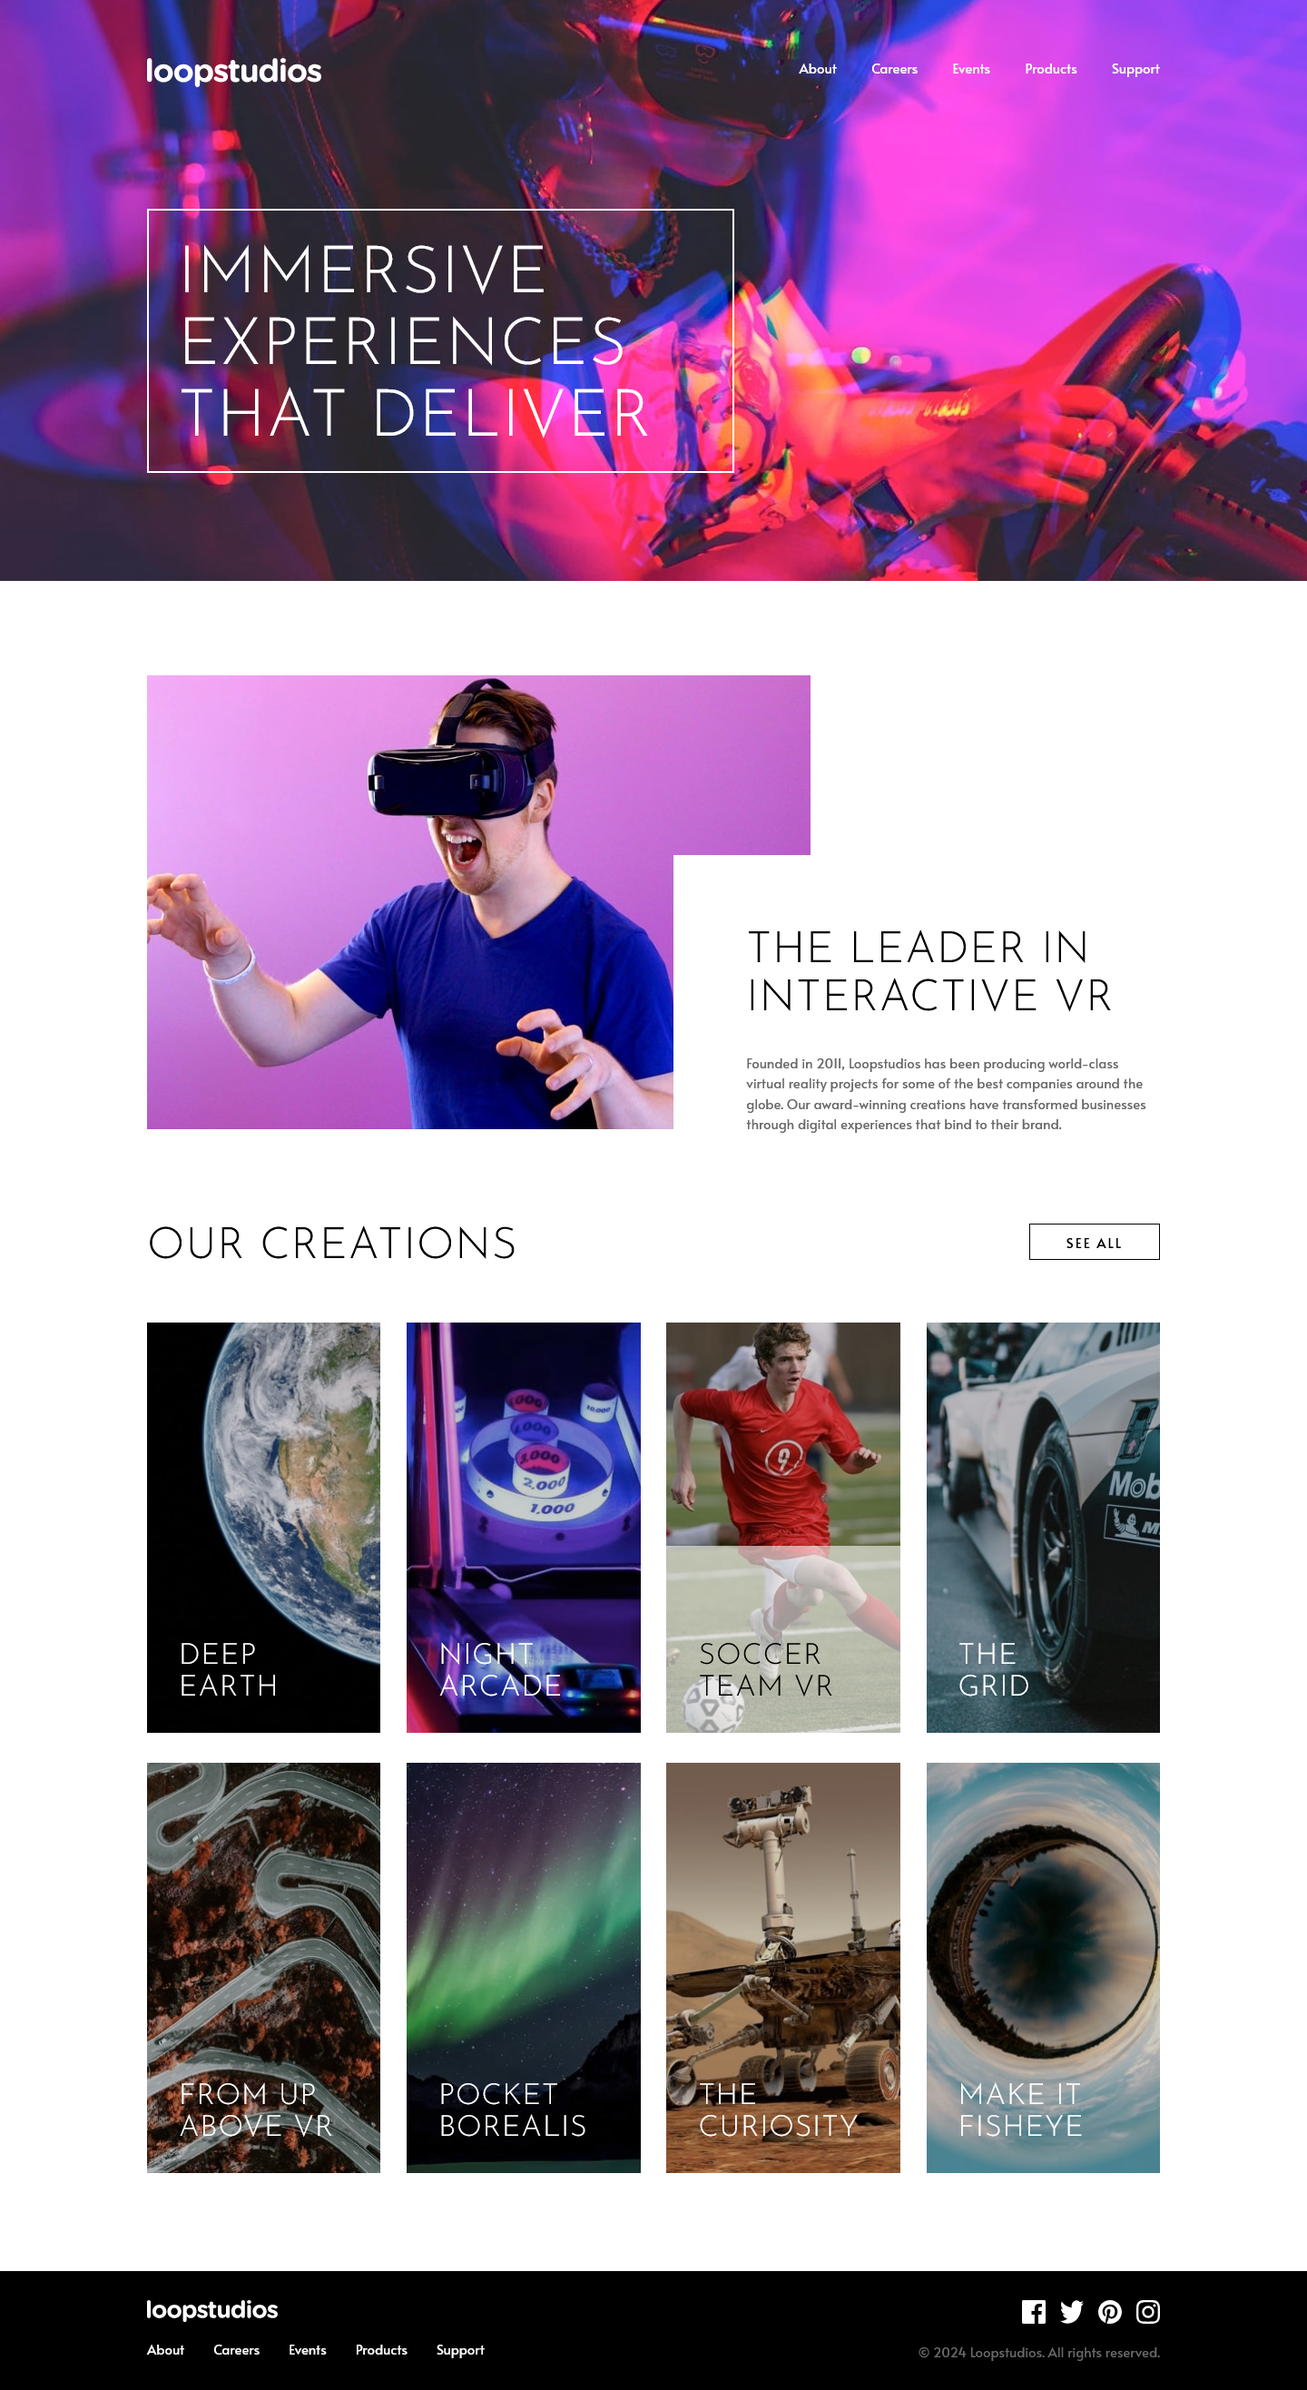
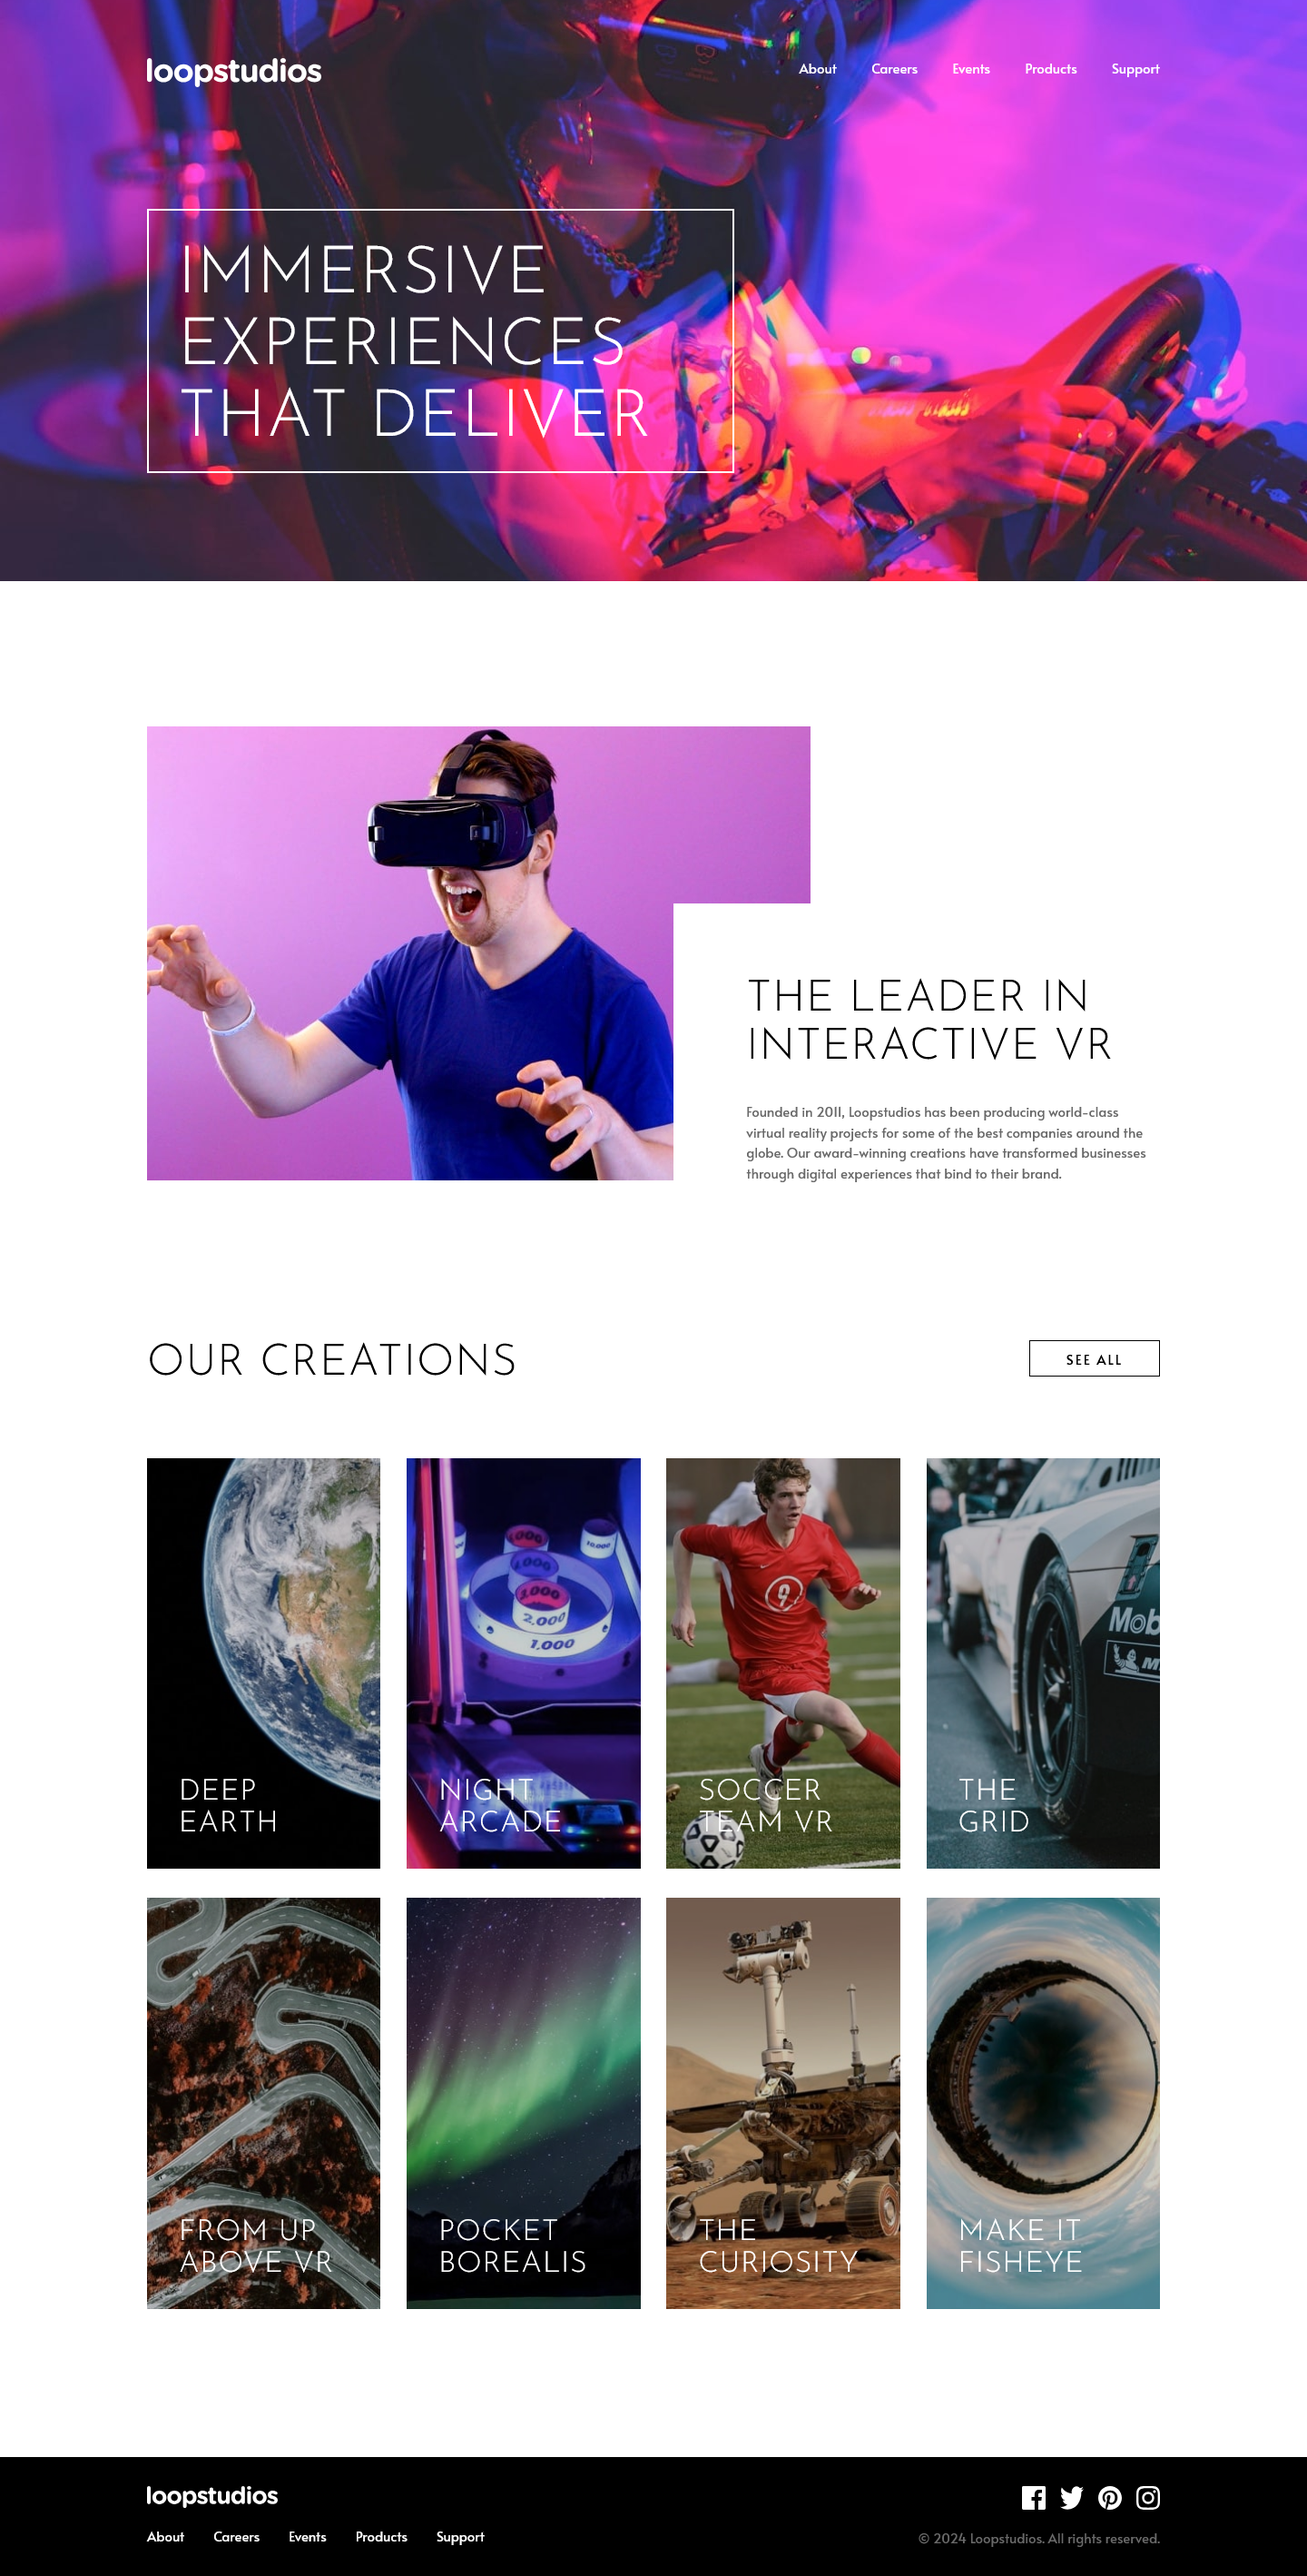
Modify margin for the first and second sections

Changed region(s): [[0.0, 0.2803, 1.0, 0.9966], [0.0, 0.0, 1.0, 0.2491]]

diff --git a/assets/css/style.css b/assets/css/style.css
@@ -201,7 +201,7 @@ h1 {
 .first-section {
     display: flex;
     position: relative;
-    margin: 6.5rem 0;
+    margin: 10rem 0 11rem;
 }
 
 .first-section h2 {
@@ -219,7 +219,7 @@ h1 {
     width: 32.563rem;
     height: 19.063rem;
     padding: 5rem 0 0 5rem;
-    top: 39.5%;
+    top: 39%;
     left: 52%;
 }
 
@@ -227,13 +227,13 @@ h1 {
 /* SECOND SECTION */
 /* ----------------------------------------- */
 .second-section {
-    margin-bottom: 6.5rem;
+    margin-bottom: 10rem;
 }
 
 .title-btn-container {
     display: flex;
     justify-content: space-between;
-    margin-bottom: 3.5rem;
+    margin-bottom: 4.8rem;
 }
 
 .button {
